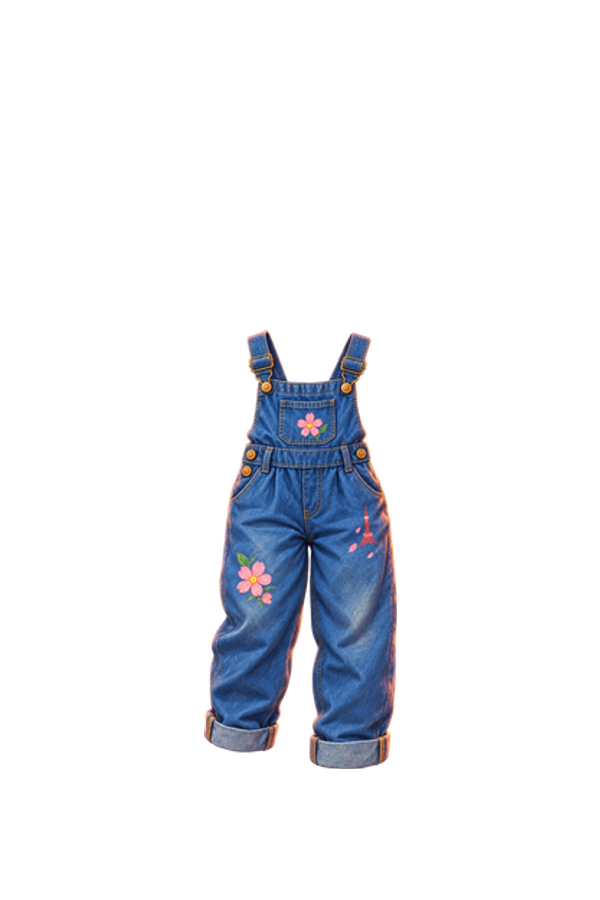
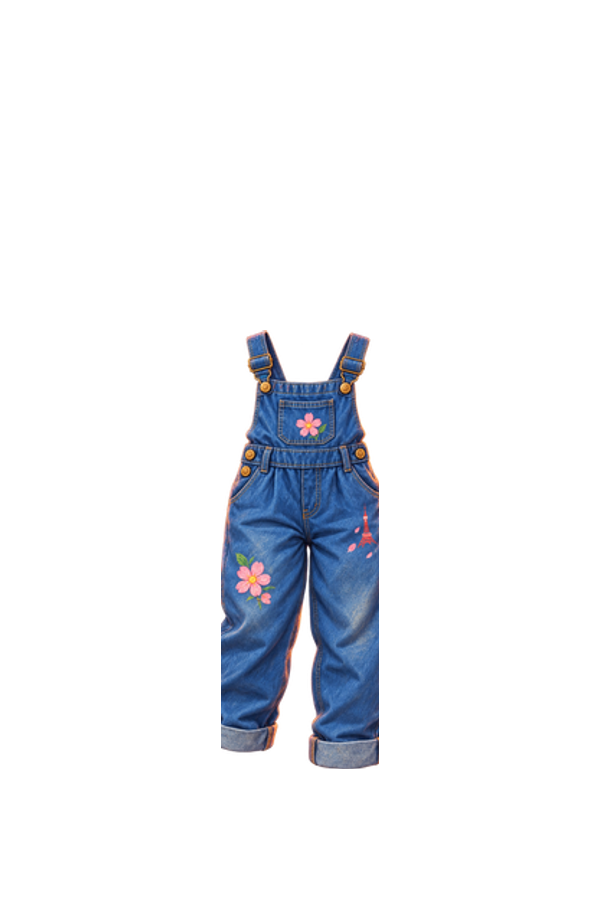
Further shrink shoes/pants, remove destination name overlay on doll
Second sizing pass: shoes and pants (travel-jeans, wide-leg-pants,
cargo-pants, denim-overalls) both narrowed to a shared 158px target
width so pant cuffs line up with the shoe beneath instead of
overhanging it — down from the 174-192px range set in earlier passes.
Shoes scale uniformly (anchored to the ground); pants narrow width-only
with their height untouched, since they must keep reaching the ankle
line — a uniform scale-down would have shortened them and left a gap
of bare leg above the shoe (caught and reverted before shipping).

Removed the destination-name <span> overlaid on the doll's background
scene — one shared JSX line, so this applies to all 15 destinations
at once, not just Tokyo.

Also audited src/data/dressUpCatalog.json: only 'all' and 'tokyo' keys
exist under destinations, meaning every fix from today's session
(sizing, dress/overalls reclassification, hairstyle removal, doll/
drawer CSS) already applies to all 15 destinations automatically —
there's no per-destination duplication to separately clean up.

Changed region(s): [[0.33, 0.3733, 0.66, 0.8711]]

diff --git a/src/LittleJetterApp.tsx b/src/LittleJetterApp.tsx
@@ -693,7 +693,7 @@ export function LittleJetterApp() {
                     <details><summary><span>04</span><strong>Eyes</strong><b>Open / close</b></summary><div className="little-character-options little-swatch-options">{characterOptions.eyes.map((option) => <button type="button" aria-label={`${option.id} eyes`} aria-pressed={character.eyes === option.id} style={{ '--choice-color': option.color } as React.CSSProperties} onClick={() => { setCharacter((current) => ({ ...current, eyes: option.id })); triggerCelebration(12); }} key={option.id} />)}</div></details>
                   </div>
                   <div className={`little-avatar little-doll-stage character-${character.style} ${dropActive ? 'is-drop-active' : ''}`} onDragEnter={() => setDropActive(true)} onDragLeave={() => setDropActive(false)} onDragOver={(event) => event.preventDefault()} onDrop={dropOnDoll} style={{ '--eye-color': characterOptions.eyes.find((option) => option.id === character.eyes)?.color, '--hair-color': characterOptions.hair.find((option) => option.id === character.hair)?.color } as React.CSSProperties} aria-label={`Outfit: ${chosen('tops').name}, ${chosen('bottoms').name}, ${chosen('layers').name}, ${chosen('shoes').name}, and ${chosen('accessories').name}`}>
-                    <div className={`little-doll-destination scene-${selected.id}`} style={{ '--scene-color': selected.color } as React.CSSProperties} aria-hidden="true">{selected.id === 'tokyo' && <img src="/little-jetter/tokyo-doll-backdrop.png" alt="" />}<span>{selected.city}</span><i /><b /></div>
+                    <div className={`little-doll-destination scene-${selected.id}`} style={{ '--scene-color': selected.color } as React.CSSProperties} aria-hidden="true">{selected.id === 'tokyo' && <img src="/little-jetter/tokyo-doll-backdrop.png" alt="" />}<i /><b /></div>
                     <CatalogDoll key={`${character.hairStyle}-${picks.tops}-${picks.bottoms}-${picks.layers}-${picks.shoes}-${picks.accessories}-${JSON.stringify(garmentColors)}`} destinationId={selected.id} picks={picks} character={character} garmentColors={garmentColors} />
                     <div className="little-dress-sparkles" key={`sparkles-${celebration}`} aria-hidden="true">{Array.from({ length: 10 }, (_, index) => <i key={index} style={{ '--spark': index } as React.CSSProperties}>✦</i>)}</div>
                     {dropActive && <div className="little-drop-message">Drop to dress</div>}
